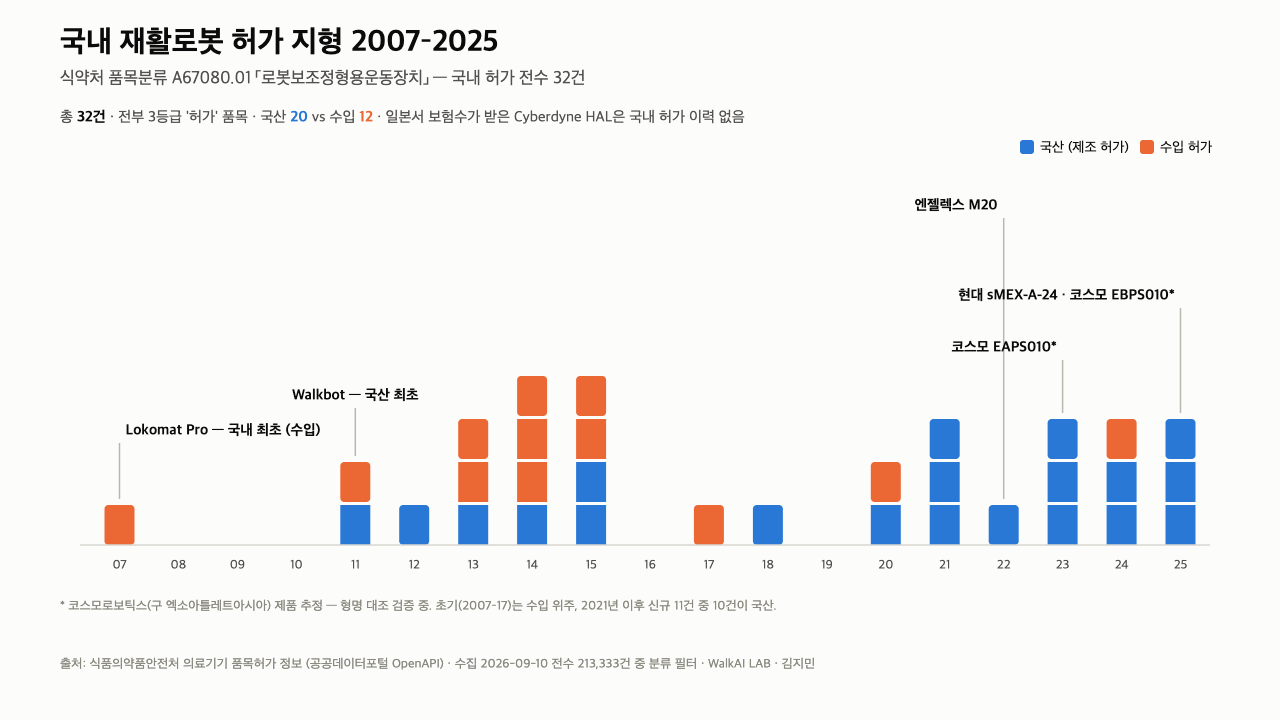
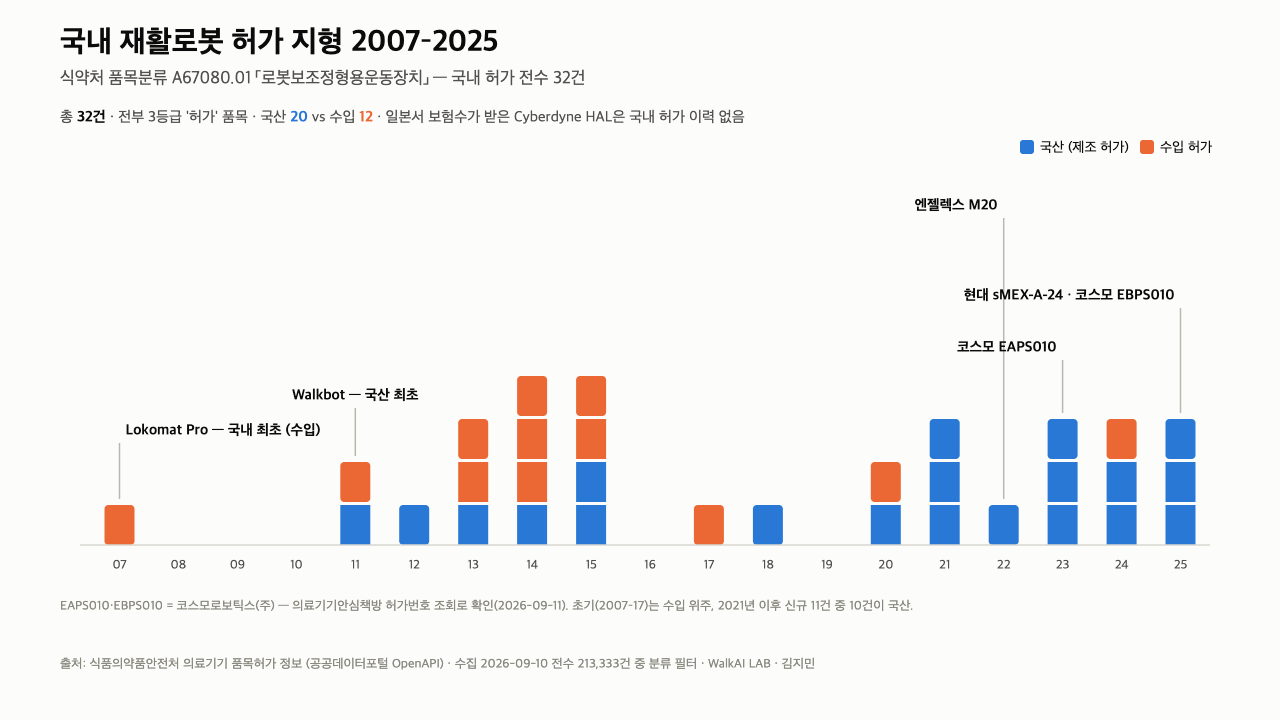
docs(research): Confirm Cosmorobotics via emedi lookup, finalize landscape chart
- 안심책방 허가번호 조회로 EAPS010(제허23-826호)·EBPS010(제허25-51호) =
  코스모로보틱스(주) 확정 — 차트·노트에서 추정 표시 제거
- 최종 PNG 재렌더·검수, 2026-09-11 워크로그

Claude-Session: https://claude.ai/code/session_01W2mBqnPFyqBMYdCFCDFkU6

Changed region(s): [[0.0312, 0.825, 0.7188, 0.8556], [0.75, 0.3972, 0.9375, 0.4278], [0.75, 0.4583, 0.8438, 0.4889]]

diff --git a/research/notes/2026-09-10-mfds-rehab-robot-landscape.md b/research/notes/2026-09-10-mfds-rehab-robot-landscape.md
@@ -49,8 +49,8 @@
 - **코스모로보틱스** (2016 엑소아틀레트아시아 설립 → 2023 코스모그룹 합류·개명, 코스닥 IPO 추진):
   2018 ExoAtlet1 국내 허가, **국내 재활로봇사 중 유일하게 FDA+CE 동시 보유**, 가정용
   재활로봇의 FDA 인증이 실적 관건이라는 보도(2026-09-11 랩장 공유).
-  우리 A67080 목록의 **EAPS010(제허 23-826, 2023-08)·EBPS010(제허 25-51, 2025-01)이
-  이 회사 제품으로 추정** (EA=ExoAtlet 명명과 개명 시점 부합 — ⚠ 형명 대조로 검증 필요).
+  우리 A67080 목록의 **EAPS010(제허23-826호)·EBPS010(제허25-51호) = 코스모로보틱스(주)
+  확정** — 의료기기안심책방 허가번호 조회로 검증(2026-09-11). 두 건 모두 품목상태 "전환" 표기.
   → HAL이 국내 미진입인 반대 방향으로, 국산이 FDA로 나가는 사례 — "근거→수가" 게임의
   한국 선수. 수가 트랙의 다음 사례연구 후보.
 - 정책 순풍: 정부 피지컬AI 핵심부품(센서·액추에이터) 예산 5배 확대, 포항시-뉴로메카

diff --git a/docs/worklog/2026-09-11.md b/docs/worklog/2026-09-11.md
@@ -1,0 +1,17 @@
+# 작업일지 - 2026-09-11
+
+## 작업 내역
+
+### [while-true-walk] 4~5회차 교안 + 로드맵 보정
+- 4회차(임상 특강) 스터디 가이드: 1~3회차 복습 표 + 특강 확인 질문 7개 + 결정 안건
+- 5회차 가이드 초안(Zhang·Shin/Ko/Kong 체크리스트), ROADMAP에 공동랩장 체제·역할 축 반영
+
+### [while-true-walk] 재활로봇 허가 지형도 제작·검증
+- A67080 32건 연도별 국산/수입 차트(SVG+PNG, 팔레트 검증 통과) — 랩장 승인용
+- 랩장 공유 뉴스(코스모로보틱스 FDA) ↔ 우리 데이터 연결: **안심책방 허가번호 조회로
+  EAPS010(제허23-826호)·EBPS010(제허25-51호) = 코스모로보틱스(주) 확정** (추정→검증)
+- **결과물**: `research/notes/assets/rehab-robot-landscape.png`, 지형 노트 갱신
+
+## 다음 할 일
+- 랩장 승인 후 단체방 공유, 4회차(9/16) 가이드 배포
+- 모티브 서베이 ⚠5편 서지 검증
